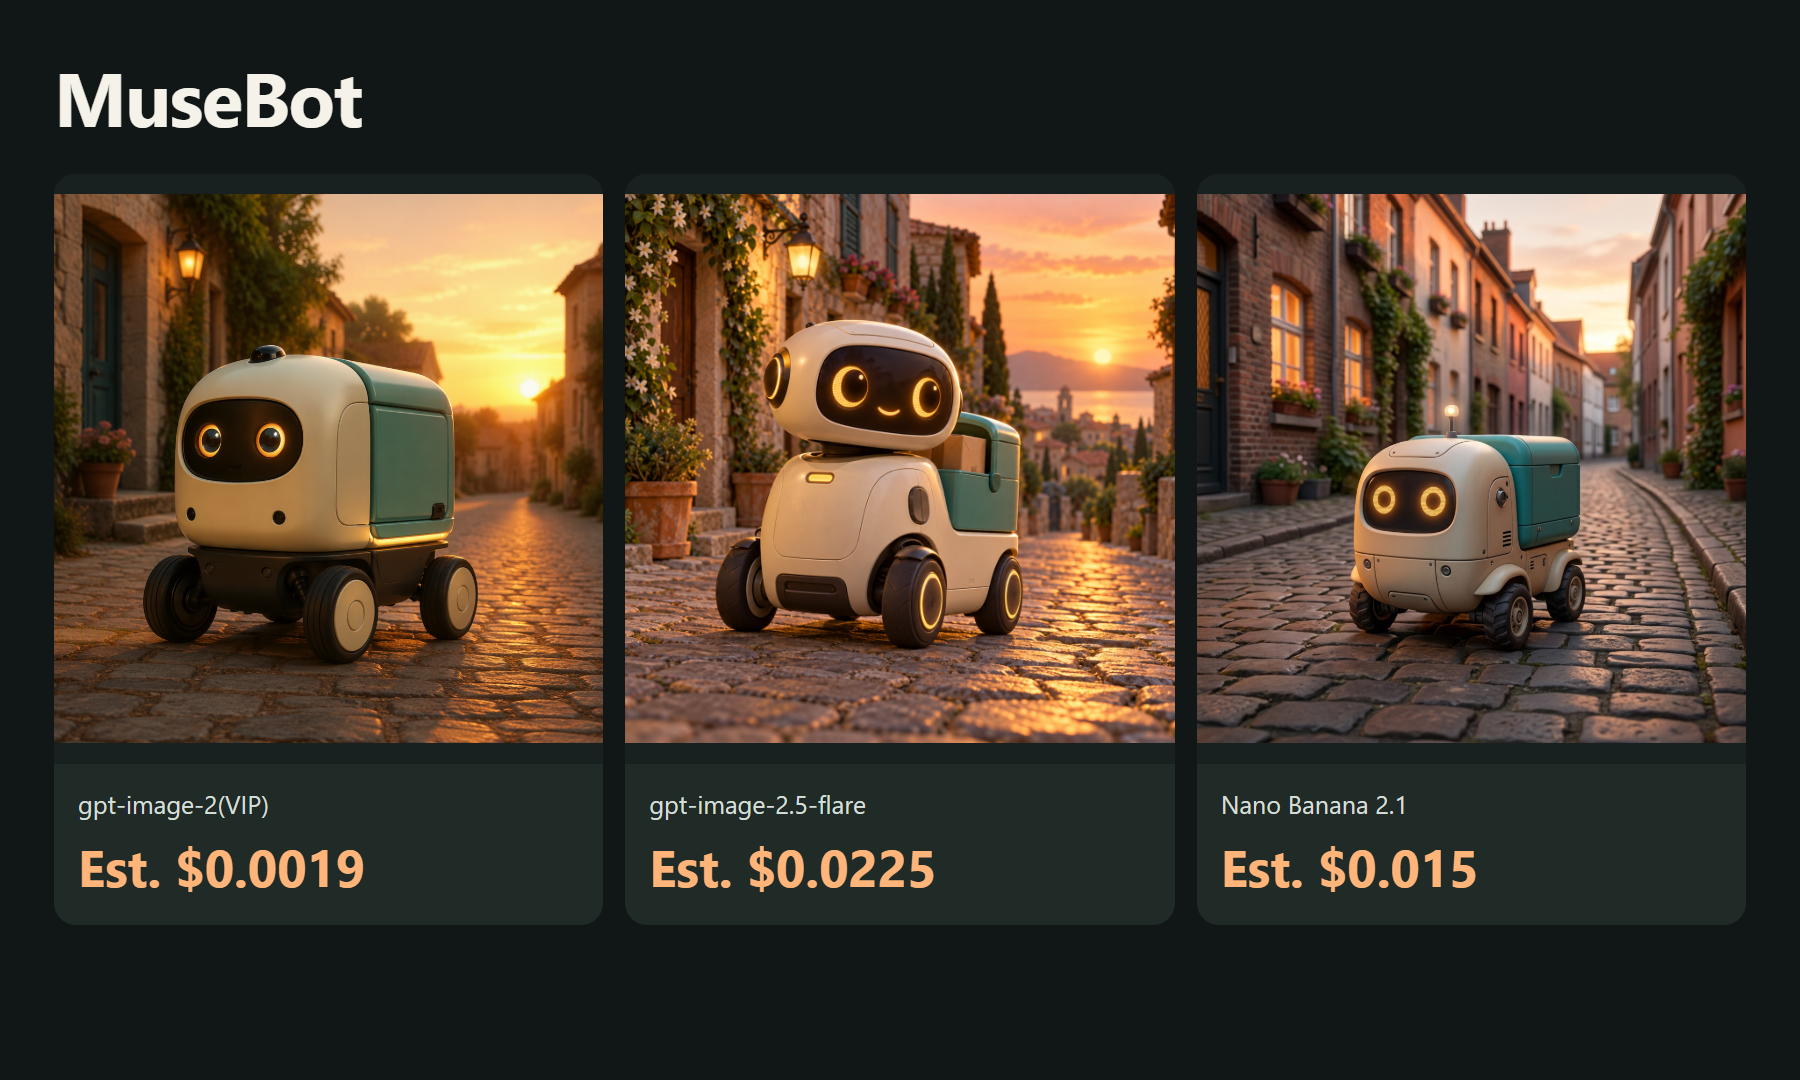
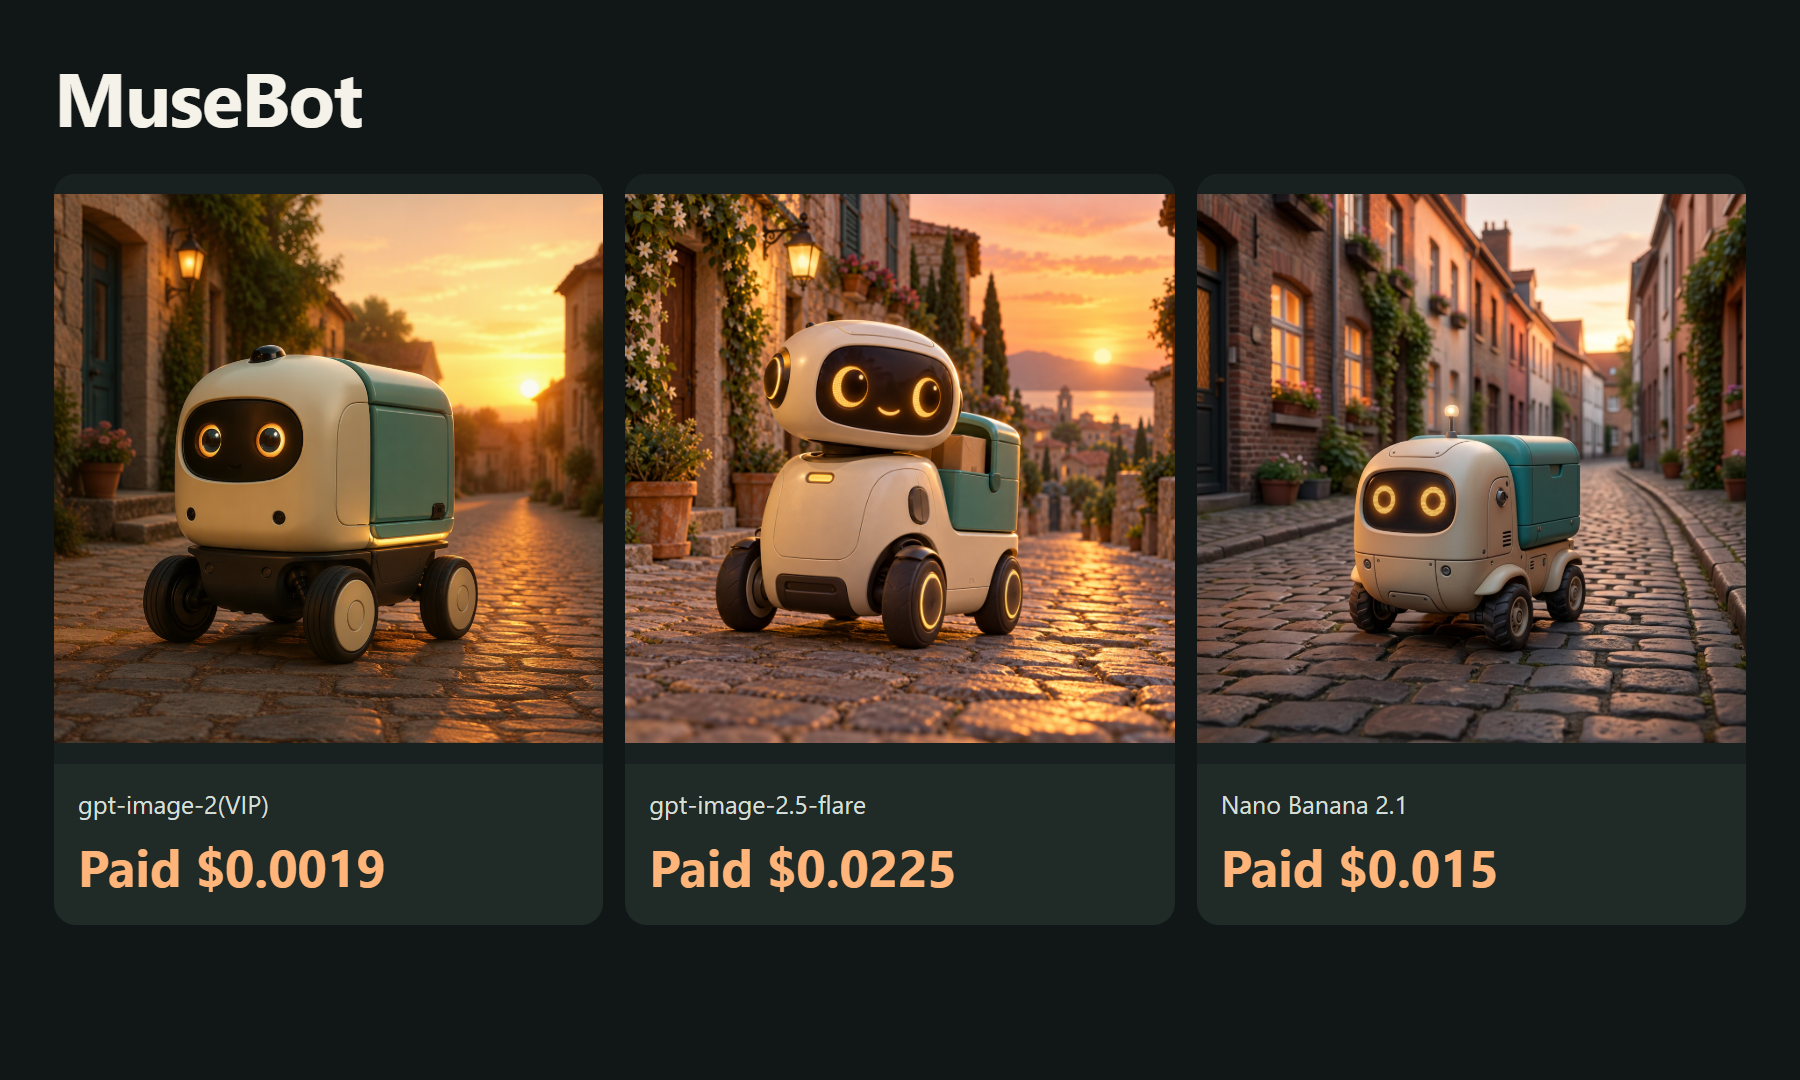
Publish original bilingual ToAPIs media examples, model pricing and real outputs

Changed region(s): [[0.0311, 0.7639, 0.2178, 0.825], [0.6844, 0.7639, 0.84, 0.825], [0.3733, 0.7639, 0.5289, 0.825]]

diff --git a/screenshots/cn/01-image-cases.html b/screenshots/cn/01-image-cases.html
@@ -1,1 +1,1 @@
-<!doctype html><html lang="zh-CN"><meta charset="utf-8"><title>MuseBot</title><style>*{box-sizing:border-box}html,body{margin:0;width:1800px;height:1080px;overflow:hidden}body{background:#111716;color:#f5f2ea;font-family:"Segoe UI","Microsoft YaHei",sans-serif}.page{padding:54px 54px 40px}h1{font-size:76px;line-height:1.1;margin:0 0 36px;font-weight:650;letter-spacing:-1.5px}.grid{display:grid;gap:22px}.case{background:#202a27;border-radius:22px;overflow:hidden}.case img{display:block;width:100%;height:590px;object-fit:contain;background:#18211f}.caption{padding:24px 24px 28px}.model{font-size:25px;line-height:1.3;color:#d5dfd7;white-space:nowrap}.price{font-size:51px;line-height:1.2;color:#ffb579;font-weight:650;margin-top:16px}.video .case img{height:610px}.video .model{font-size:30px}.video .price{font-size:50px}</style><main class="page "><h1>MuseBot</h1><div class="grid" style="grid-template-columns:repeat(3,1fr)"><section class="case"><img src="../../examples/gpt-image-2-vip.png"><div class="caption"><div class="model">gpt-image-2(VIP)</div><div class="price">预计 $0.0019</div></div></section><section class="case"><img src="../../examples/gpt-image-2-5-flare.png"><div class="caption"><div class="model">gpt-image-2.5-flare</div><div class="price">预计 $0.0225</div></div></section><section class="case"><img src="../../examples/gemini-nano-banana-2-1.png"><div class="caption"><div class="model">Nano Banana 2.1</div><div class="price">预计 $0.015</div></div></section></div></main></html>
+<!doctype html><html lang="zh-CN"><meta charset="utf-8"><title>MuseBot</title><style>*{box-sizing:border-box}html,body{margin:0;width:1800px;height:1080px;overflow:hidden}body{background:#111716;color:#f5f2ea;font-family:"Segoe UI","Microsoft YaHei",sans-serif}.page{padding:54px 54px 40px}h1{font-size:76px;line-height:1.1;margin:0 0 36px;font-weight:650;letter-spacing:-1.5px}.grid{display:grid;gap:22px}.case{background:#202a27;border-radius:22px;overflow:hidden}.case img{display:block;width:100%;height:590px;object-fit:contain;background:#18211f}.caption{padding:24px 24px 28px}.model{font-size:25px;line-height:1.3;color:#d5dfd7;white-space:nowrap}.price{font-size:51px;line-height:1.2;color:#ffb579;font-weight:650;margin-top:16px}.video .case img{height:610px}.video .model{font-size:30px}.video .price{font-size:50px}</style><main class="page "><h1>MuseBot</h1><div class="grid" style="grid-template-columns:repeat(3,1fr)"><section class="case"><img src="../../examples/gpt-image-2-vip.png"><div class="caption"><div class="model">gpt-image-2(VIP)</div><div class="price">实扣 $0.0019</div></div></section><section class="case"><img src="../../examples/gpt-image-2-5-flare.png"><div class="caption"><div class="model">gpt-image-2.5-flare</div><div class="price">实扣 $0.0225</div></div></section><section class="case"><img src="../../examples/gemini-nano-banana-2-1.png"><div class="caption"><div class="model">Nano Banana 2.1</div><div class="price">实扣 $0.015</div></div></section></div></main></html>

diff --git a/screenshots/en/01-image-cases.html b/screenshots/en/01-image-cases.html
@@ -1,1 +1,1 @@
-<!doctype html><html lang="en"><meta charset="utf-8"><title>MuseBot</title><style>*{box-sizing:border-box}html,body{margin:0;width:1800px;height:1080px;overflow:hidden}body{background:#111716;color:#f5f2ea;font-family:"Segoe UI","Microsoft YaHei",sans-serif}.page{padding:54px 54px 40px}h1{font-size:76px;line-height:1.1;margin:0 0 36px;font-weight:650;letter-spacing:-1.5px}.grid{display:grid;gap:22px}.case{background:#202a27;border-radius:22px;overflow:hidden}.case img{display:block;width:100%;height:590px;object-fit:contain;background:#18211f}.caption{padding:24px 24px 28px}.model{font-size:25px;line-height:1.3;color:#d5dfd7;white-space:nowrap}.price{font-size:51px;line-height:1.2;color:#ffb579;font-weight:650;margin-top:16px}.video .case img{height:610px}.video .model{font-size:30px}.video .price{font-size:50px}</style><main class="page "><h1>MuseBot</h1><div class="grid" style="grid-template-columns:repeat(3,1fr)"><section class="case"><img src="../../examples/gpt-image-2-vip.png"><div class="caption"><div class="model">gpt-image-2(VIP)</div><div class="price">Est. $0.0019</div></div></section><section class="case"><img src="../../examples/gpt-image-2-5-flare.png"><div class="caption"><div class="model">gpt-image-2.5-flare</div><div class="price">Est. $0.0225</div></div></section><section class="case"><img src="../../examples/gemini-nano-banana-2-1.png"><div class="caption"><div class="model">Nano Banana 2.1</div><div class="price">Est. $0.015</div></div></section></div></main></html>
+<!doctype html><html lang="en"><meta charset="utf-8"><title>MuseBot</title><style>*{box-sizing:border-box}html,body{margin:0;width:1800px;height:1080px;overflow:hidden}body{background:#111716;color:#f5f2ea;font-family:"Segoe UI","Microsoft YaHei",sans-serif}.page{padding:54px 54px 40px}h1{font-size:76px;line-height:1.1;margin:0 0 36px;font-weight:650;letter-spacing:-1.5px}.grid{display:grid;gap:22px}.case{background:#202a27;border-radius:22px;overflow:hidden}.case img{display:block;width:100%;height:590px;object-fit:contain;background:#18211f}.caption{padding:24px 24px 28px}.model{font-size:25px;line-height:1.3;color:#d5dfd7;white-space:nowrap}.price{font-size:51px;line-height:1.2;color:#ffb579;font-weight:650;margin-top:16px}.video .case img{height:610px}.video .model{font-size:30px}.video .price{font-size:50px}</style><main class="page "><h1>MuseBot</h1><div class="grid" style="grid-template-columns:repeat(3,1fr)"><section class="case"><img src="../../examples/gpt-image-2-vip.png"><div class="caption"><div class="model">gpt-image-2(VIP)</div><div class="price">Paid $0.0019</div></div></section><section class="case"><img src="../../examples/gpt-image-2-5-flare.png"><div class="caption"><div class="model">gpt-image-2.5-flare</div><div class="price">Paid $0.0225</div></div></section><section class="case"><img src="../../examples/gemini-nano-banana-2-1.png"><div class="caption"><div class="model">Nano Banana 2.1</div><div class="price">Paid $0.015</div></div></section></div></main></html>

diff --git a/screenshots/cn/02-video-case.html b/screenshots/cn/02-video-case.html
@@ -1,1 +1,1 @@
-<!doctype html><html lang="zh-CN"><meta charset="utf-8"><title>MuseBot</title><style>*{box-sizing:border-box}html,body{margin:0;width:1800px;height:1080px;overflow:hidden}body{background:#111716;color:#f5f2ea;font-family:"Segoe UI","Microsoft YaHei",sans-serif}.page{padding:54px 54px 40px}h1{font-size:76px;line-height:1.1;margin:0 0 36px;font-weight:650;letter-spacing:-1.5px}.grid{display:grid;gap:22px}.case{background:#202a27;border-radius:22px;overflow:hidden}.case img{display:block;width:100%;height:590px;object-fit:contain;background:#18211f}.caption{padding:24px 24px 28px}.model{font-size:25px;line-height:1.3;color:#d5dfd7;white-space:nowrap}.price{font-size:51px;line-height:1.2;color:#ffb579;font-weight:650;margin-top:16px}.video .case img{height:610px}.video .model{font-size:30px}.video .price{font-size:50px}</style><main class="page video"><h1>MuseBot</h1><div class="grid" style="grid-template-columns:repeat(2,1fr)"><section class="case"><img src="../../examples/gpt-image-2-vip.png"><div class="caption"><div class="model">gpt-image-2(VIP)</div><div class="price">预计 $0.0019</div></div></section><section class="case"><img src="../../demo/video-frame.jpg"><div class="caption"><div class="model">MiniMax H3 · 5s / 768p</div><div class="price">预计 $0.40</div></div></section></div></main></html>
+<!doctype html><html lang="zh-CN"><meta charset="utf-8"><title>MuseBot</title><style>*{box-sizing:border-box}html,body{margin:0;width:1800px;height:1080px;overflow:hidden}body{background:#111716;color:#f5f2ea;font-family:"Segoe UI","Microsoft YaHei",sans-serif}.page{padding:54px 54px 40px}h1{font-size:76px;line-height:1.1;margin:0 0 36px;font-weight:650;letter-spacing:-1.5px}.grid{display:grid;gap:22px}.case{background:#202a27;border-radius:22px;overflow:hidden}.case img{display:block;width:100%;height:590px;object-fit:contain;background:#18211f}.caption{padding:24px 24px 28px}.model{font-size:25px;line-height:1.3;color:#d5dfd7;white-space:nowrap}.price{font-size:51px;line-height:1.2;color:#ffb579;font-weight:650;margin-top:16px}.video .case img{height:610px}.video .model{font-size:30px}.video .price{font-size:50px}</style><main class="page video"><h1>MuseBot</h1><div class="grid" style="grid-template-columns:repeat(2,1fr)"><section class="case"><img src="../../examples/gpt-image-2-vip.png"><div class="caption"><div class="model">gpt-image-2(VIP)</div><div class="price">实扣 $0.0019</div></div></section><section class="case"><img src="../../demo/video-frame.jpg"><div class="caption"><div class="model">MiniMax H3 · 5s / 768p</div><div class="price">实扣 $0.40</div></div></section></div></main></html>

diff --git a/screenshots/en/02-video-case.html b/screenshots/en/02-video-case.html
@@ -1,1 +1,1 @@
-<!doctype html><html lang="en"><meta charset="utf-8"><title>MuseBot</title><style>*{box-sizing:border-box}html,body{margin:0;width:1800px;height:1080px;overflow:hidden}body{background:#111716;color:#f5f2ea;font-family:"Segoe UI","Microsoft YaHei",sans-serif}.page{padding:54px 54px 40px}h1{font-size:76px;line-height:1.1;margin:0 0 36px;font-weight:650;letter-spacing:-1.5px}.grid{display:grid;gap:22px}.case{background:#202a27;border-radius:22px;overflow:hidden}.case img{display:block;width:100%;height:590px;object-fit:contain;background:#18211f}.caption{padding:24px 24px 28px}.model{font-size:25px;line-height:1.3;color:#d5dfd7;white-space:nowrap}.price{font-size:51px;line-height:1.2;color:#ffb579;font-weight:650;margin-top:16px}.video .case img{height:610px}.video .model{font-size:30px}.video .price{font-size:50px}</style><main class="page video"><h1>MuseBot</h1><div class="grid" style="grid-template-columns:repeat(2,1fr)"><section class="case"><img src="../../examples/gpt-image-2-vip.png"><div class="caption"><div class="model">gpt-image-2(VIP)</div><div class="price">Est. $0.0019</div></div></section><section class="case"><img src="../../demo/video-frame.jpg"><div class="caption"><div class="model">MiniMax H3 · 5s / 768p</div><div class="price">Est. $0.40</div></div></section></div></main></html>
+<!doctype html><html lang="en"><meta charset="utf-8"><title>MuseBot</title><style>*{box-sizing:border-box}html,body{margin:0;width:1800px;height:1080px;overflow:hidden}body{background:#111716;color:#f5f2ea;font-family:"Segoe UI","Microsoft YaHei",sans-serif}.page{padding:54px 54px 40px}h1{font-size:76px;line-height:1.1;margin:0 0 36px;font-weight:650;letter-spacing:-1.5px}.grid{display:grid;gap:22px}.case{background:#202a27;border-radius:22px;overflow:hidden}.case img{display:block;width:100%;height:590px;object-fit:contain;background:#18211f}.caption{padding:24px 24px 28px}.model{font-size:25px;line-height:1.3;color:#d5dfd7;white-space:nowrap}.price{font-size:51px;line-height:1.2;color:#ffb579;font-weight:650;margin-top:16px}.video .case img{height:610px}.video .model{font-size:30px}.video .price{font-size:50px}</style><main class="page video"><h1>MuseBot</h1><div class="grid" style="grid-template-columns:repeat(2,1fr)"><section class="case"><img src="../../examples/gpt-image-2-vip.png"><div class="caption"><div class="model">gpt-image-2(VIP)</div><div class="price">Paid $0.0019</div></div></section><section class="case"><img src="../../demo/video-frame.jpg"><div class="caption"><div class="model">MiniMax H3 · 5s / 768p</div><div class="price">Paid $0.40</div></div></section></div></main></html>

diff --git a/README.md b/README.md
@@ -4,7 +4,7 @@
 
 Generate images and videos from a chat bot.
 
-October 16, 2026: 3 real images and 1 real video. Catalog estimate for these completed assets: **$0.4394**; settled charges pending.
+October 16, 2026: 3 real images and 1 real video. Confirmed charge for these completed assets: **$0.4394 (87.88 credits)**, reconciled by task ID against the owner-provided dashboard export.
 
 [ToAPIs · model pricing and setup](https://go2v.toapis.com/mb16ge)
 
@@ -20,12 +20,12 @@ October 16, 2026: 3 real images and 1 real video. Catalog estimate for these com
 
 | Model | Preset | Catalog estimate / output | Settled charge |
 |---|---|---:|---|
-| gpt-image-2(VIP) | low / 1K | $0.0019 | pending |
-| gpt-image-2.5-flare | high / 1K | $0.0225 | pending |
-| Nano Banana 2.1 | 1K | $0.015 | pending |
-| MiniMax H3 | 5s / 768p / first-frame | $0.40 ($0.08/s) | pending |
+| gpt-image-2(VIP) | low / 1K | $0.0019 | $0.0019 |
+| gpt-image-2.5-flare | high / 1K | $0.0225 | $0.0225 |
+| Nano Banana 2.1 | 1K | $0.015 | $0.015 |
+| MiniMax H3 | 5s / 768p / first-frame | $0.40 ($0.08/s) | $0.4 |
 
-These are catalog estimates for the specified presets, not confirmed settled charges. Different models/presets do not imply equal quality. See evidence and examples for task records and originals.
+Catalog rates and confirmed charges match for these tested presets. Charges were reconciled against the owner-provided dashboard export at USD 0.005 per credit. Different models/presets do not imply equal quality. See evidence and examples for task records and originals.
 
 ## Run it
 

diff --git a/README_zh-CN.md b/README_zh-CN.md
@@ -4,7 +4,7 @@
 
 在聊天机器人里生成图片和视频。
 
-2026-10-16：3张真实图片、1段真实视频；本批成功素材按价表估算 **$0.4394**，实际扣费待后台核对。
+2026-10-16：3张真实图片、1段真实视频；本批成功素材实扣 **$0.4394（87.88积分）**，已按后台导出逐任务核对。
 
 [ToAPIs · 对应模型价格与接入](https://go2v.toapis.com/mb16gc)
 
@@ -20,12 +20,12 @@
 
 | Model | Preset | Catalog estimate / output | Settled charge |
 |---|---|---:|---|
-| gpt-image-2(VIP) | low / 1K | $0.0019 | 待核对 |
-| gpt-image-2.5-flare | high / 1K | $0.0225 | 待核对 |
-| Nano Banana 2.1 | 1K | $0.015 | 待核对 |
-| MiniMax H3 | 5s / 768p / first-frame | $0.40 ($0.08/s) | 待核对 |
+| gpt-image-2(VIP) | low / 1K | $0.0019 | $0.0019 |
+| gpt-image-2.5-flare | high / 1K | $0.0225 | $0.0225 |
+| Nano Banana 2.1 | 1K | $0.015 | $0.015 |
+| MiniMax H3 | 5s / 768p / first-frame | $0.40 ($0.08/s) | $0.4 |
 
-以上是本次明确配置的费率估算，不是已结算金额；不同模型/画质不表示同等质量。每项任务、请求和原始文件见evidence与examples。
+对应配置的价表与本次实扣一致；实扣来自后台导出，1积分=$0.005。不同模型/画质不表示同等质量。逐任务记录和原始文件见evidence与examples。
 
 ## 怎么运行
 
